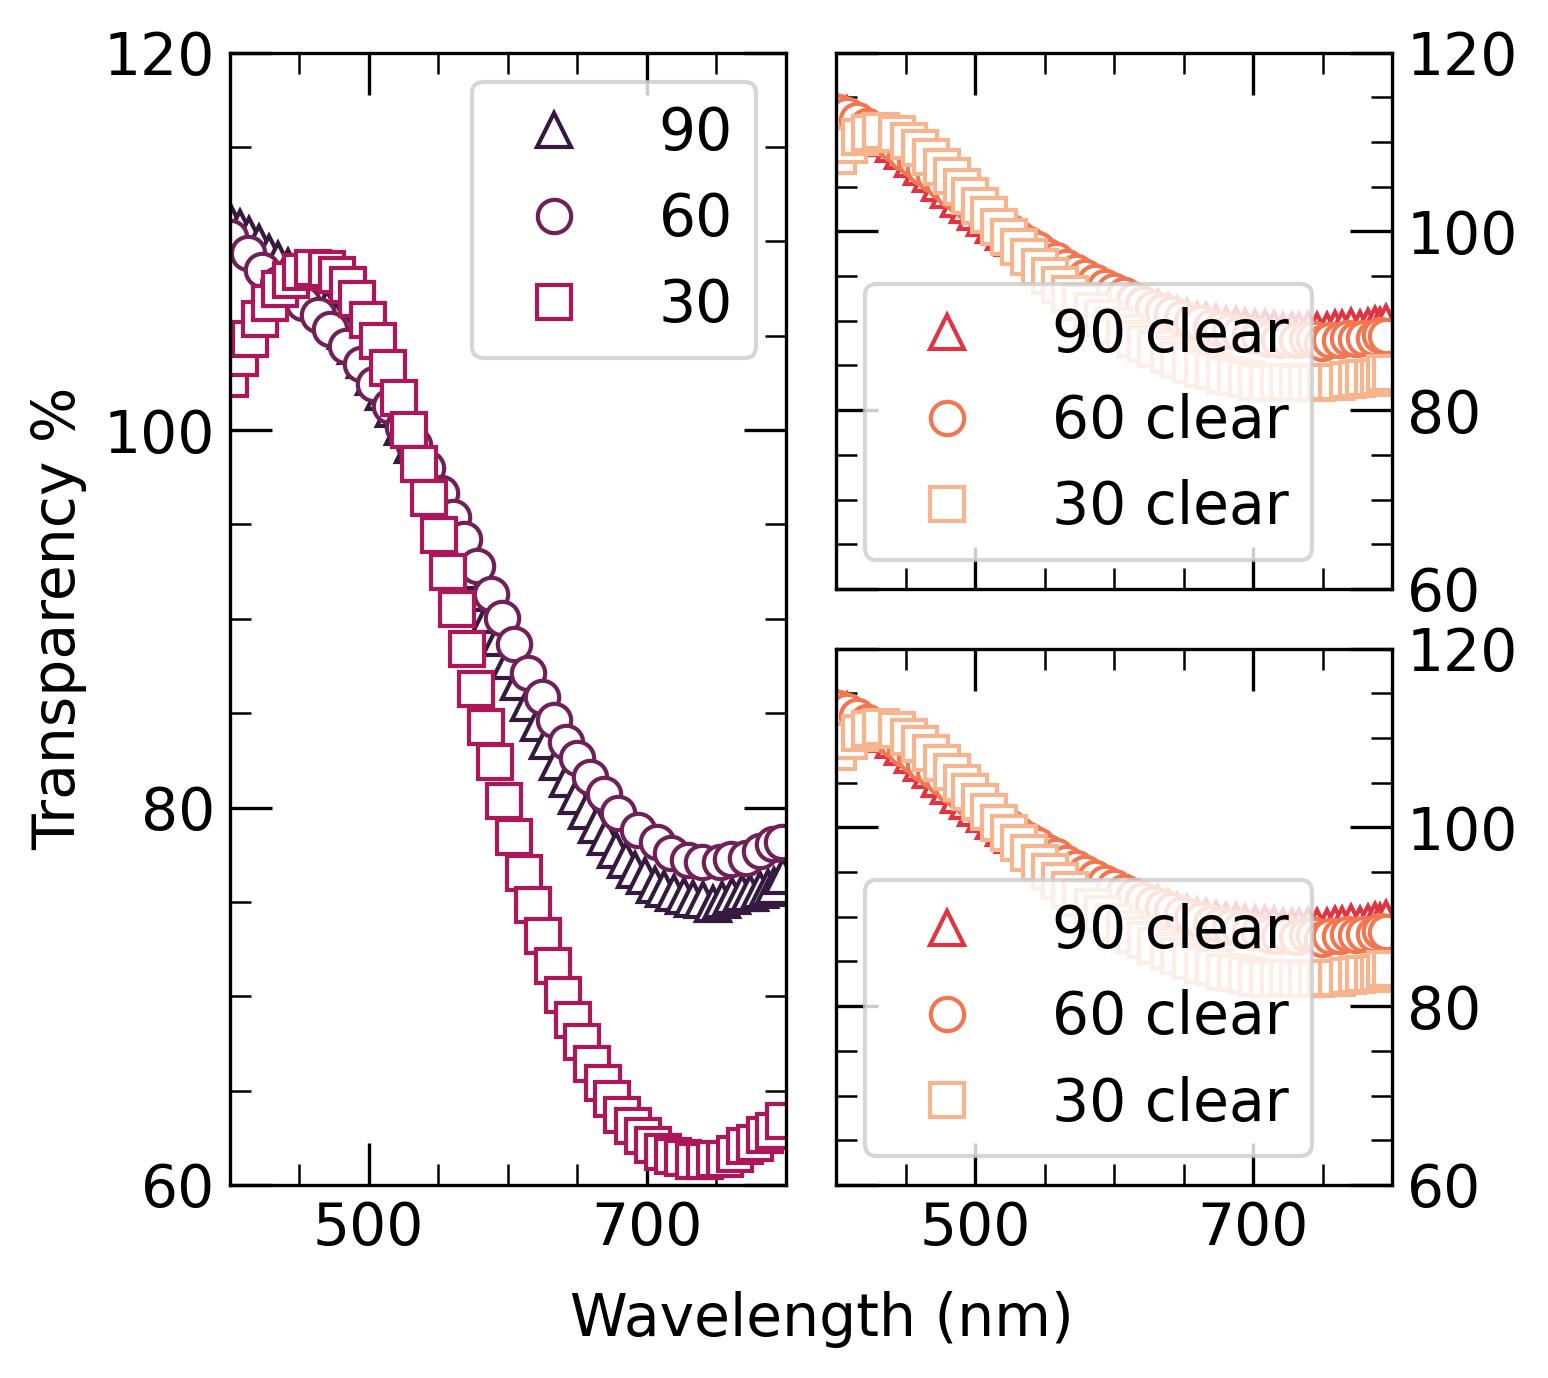
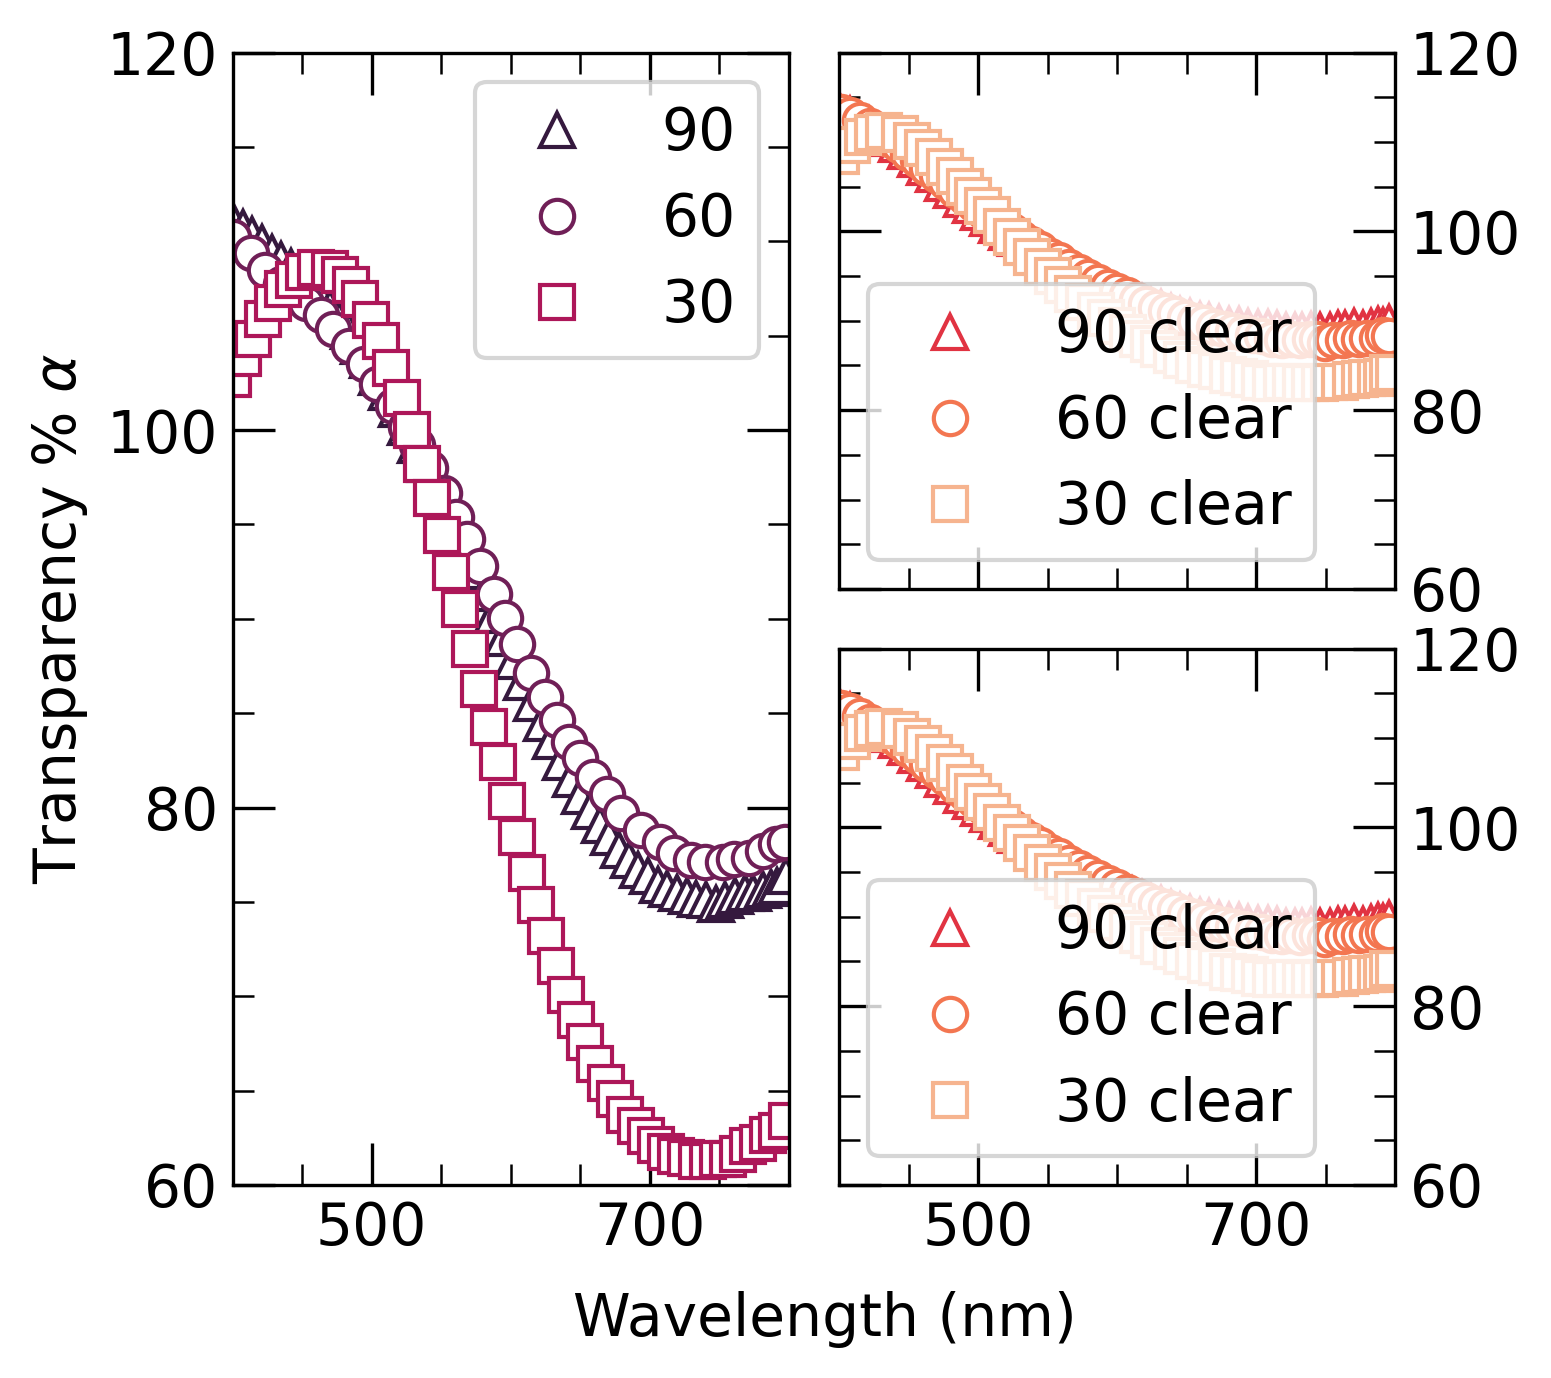
fix bugs in multipanel and multiaxes plots
thanks to youtube commenters for the fixes. Now the multi axes plots have right axes colors

diff --git a/module_examples/figures_multiple_axes.py b/module_examples/figures_multiple_axes.py
@@ -100,7 +100,8 @@ host.tick_params(axis='y', colors=seshadri[1], **tkw)
 par1.tick_params(axis='y', colors=seshadri[0], **tkw)
 par2.tick_params(axis='y', colors=seshadri[4], **tkw)
 host.tick_params(direction='in', **tkw)
-
+par1.spines["right"].set_edgecolor(p2.get_color())
+par2.spines["right"].set_edgecolor(p3.get_color())
 
 lines = [p1, p4, p2, p5, p3, p6, p7, p8]
 

diff --git a/module_examples/figures_multipanel_plot_example.py b/module_examples/figures_multipanel_plot_example.py
@@ -87,7 +87,7 @@ plt.ylim(ymin,ymax)
 
 
 #Create axes labels
-plt.ylabel('Transparency %')  
+plt.ylabel(r'Transparency % $\alpha$')  
 #plt.xlabel('Wavelength (nm)')
 plt.text(645,52,'Wavelength (nm)')
 
